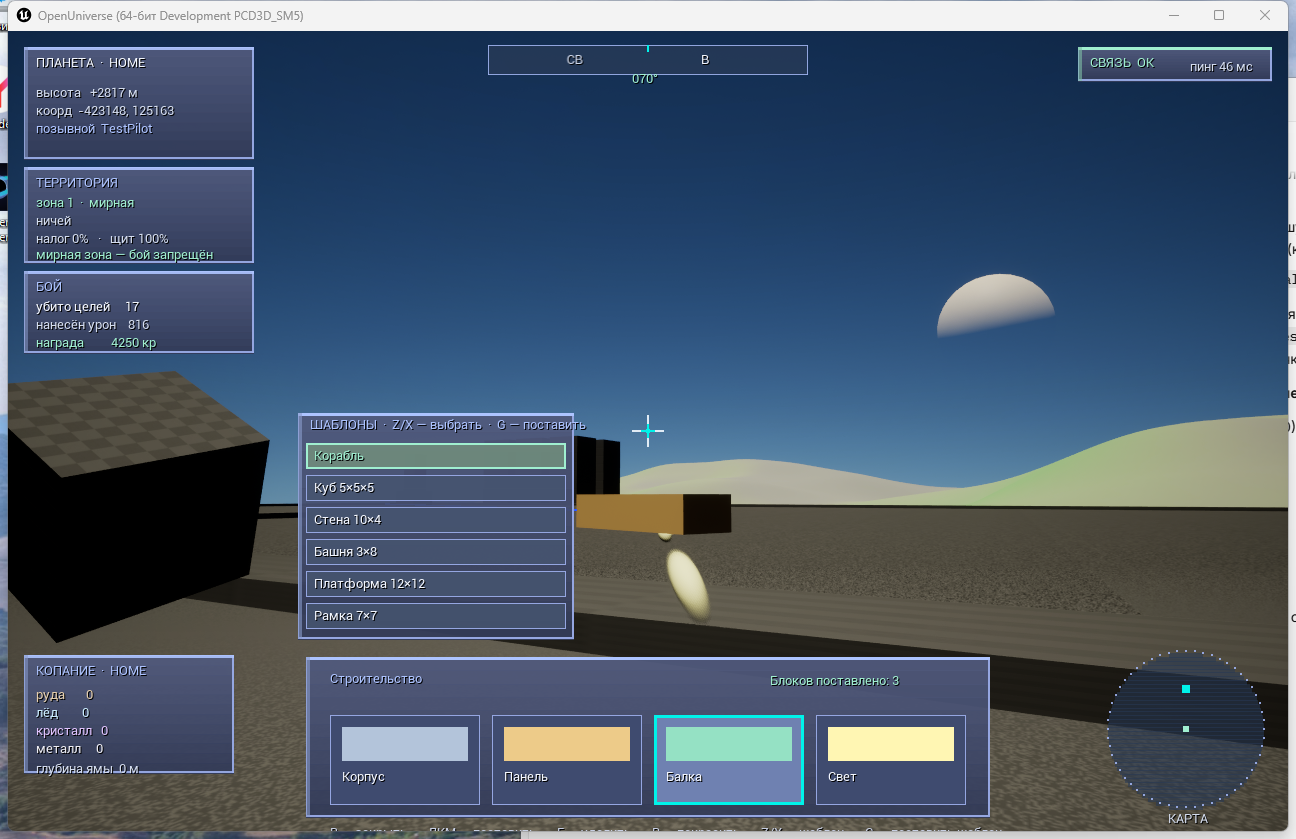
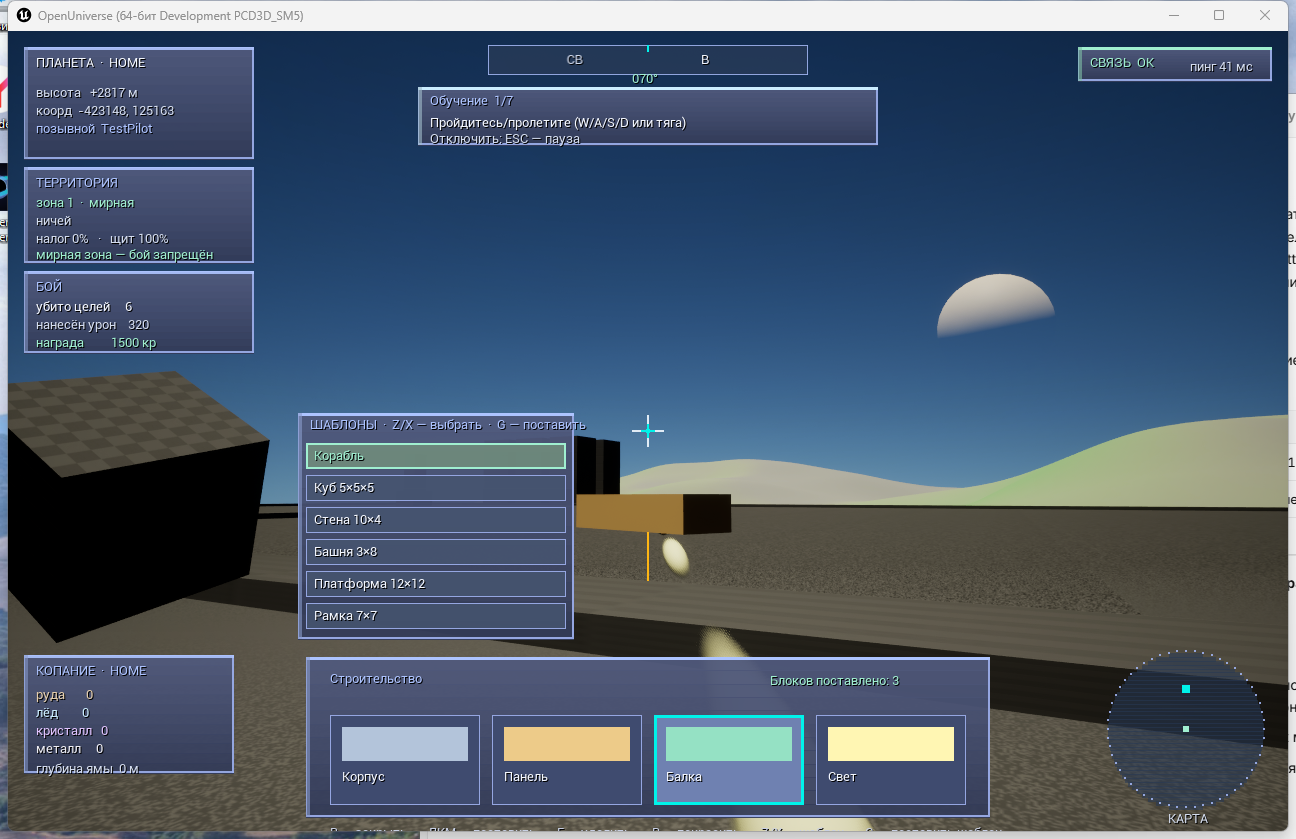
feat: new-player tutorial (step-by-step goals from actions, HUD panel, disable in the pause menu)

diff --git a/data.js b/data.js
@@ -179,7 +179,7 @@ window.PLAN = {
         { "title": "Голосовой чат (голосовая связь)", "title_en": "Voice chat", "status": "todo" },
         { "title": "Внутриигровая валюта и рынок предметов (MTX): премиум-кристаллы и магазин в окне рынка", "title_en": "In-game currency and item market (MTX): premium crystals and a shop in the market window", "status": "done" },
         { "title": "Таланты/прогрессия персонажа (опыт за копание/крафт/бой, уровни, очки талантов, окно P)", "title_en": "Character talents and progression (XP for digging/crafting/combat, levels, talent points, key P)", "status": "done" },
-        { "title": "Обучение для новичков (tutorial)", "title_en": "New player tutorial", "status": "todo" }
+        { "title": "Обучение для новичков (tutorial): пошаговые цели по действиям, панель в HUD, отключение в паузе", "title_en": "New player tutorial: step-by-step goals from actions, HUD panel, disable in pause", "status": "done" }
       ]
     },
     {

diff --git a/client/Source/OpenUniverse/OUPlayerMenuController.cpp b/client/Source/OpenUniverse/OUPlayerMenuController.cpp
@@ -346,6 +346,10 @@ void AOUPlayerMenuController::OnLeftClick()
 					{
 						LeaveServer();
 					}
+					else if (B.Id == 4)
+					{
+						DisableTutorial();
+					}
 				}
 				return;
 			}
@@ -1201,6 +1205,10 @@ void AOUPlayerMenuController::DrawPauseMenu(UCanvas* InCanvas)
 	MenuRow(1, TEXT("Продолжить"), ColAccent2);
 	MenuRow(2, TEXT("Настройки"), ColAccent);
 	MenuRow(3, TEXT("Отлучиться от сервера"), ColErr);
+	if (bTutorialEnabled && !bTutorialDone)
+	{
+		MenuRow(4, TEXT("Отключить обучение"), FLinearColor(0.9f, 0.75f, 0.3f));
+	}
 
 	DrawText(InCanvas, Small, TEXT("ESC — закрыть  ·  ЛКМ — выбрать"),
 		FVector2D(PanelPos.X + 28, PanelPos.Y + PanelH - 28), ColMuted);
@@ -1717,6 +1725,80 @@ void AOUPlayerMenuController::SubmitChat()
 	}
 	ChatInput.Empty();
 	SetMenuCursor(false);
+}
+
+void AOUPlayerMenuController::NotifyTutorial(const FString& Kind)
+{
+	if (!bTutorialEnabled || bTutorialDone)
+	{
+		return;
+	}
+	static const TCHAR* Steps[] = {
+		TEXT("move"), TEXT("dig"), TEXT("build"), TEXT("market"),
+		TEXT("craft"), TEXT("combat"), TEXT("talent"),
+	};
+	const int32 Count = UE_ARRAY_COUNT(Steps);
+	if (TutorialStep >= Count)
+	{
+		bTutorialDone = true;
+		return;
+	}
+	if (Kind == Steps[TutorialStep])
+	{
+		++TutorialStep;
+		if (TutorialStep >= Count)
+		{
+			bTutorialDone = true;
+			UE_LOG(LogOUMenu, Log, TEXT("Обучение пройдено (все %d шагов)"), Count);
+		}
+		else
+		{
+			UE_LOG(LogOUMenu, Log, TEXT("Обучение: шаг %d/%d пройден по «%s»"),
+				TutorialStep, Count, *Kind);
+		}
+	}
+}
+
+void AOUPlayerMenuController::DisableTutorial()
+{
+	bTutorialEnabled = false;
+	UE_LOG(LogOUMenu, Log, TEXT("Обучение отключено игроком"));
+}
+
+void AOUPlayerMenuController::DrawTutorial(UCanvas* InCanvas)
+{
+	if (bMenuOpen || !bTutorialEnabled || bTutorialDone || !InCanvas)
+	{
+		return;
+	}
+	UFont* Small = GEngine->GetMediumFont();
+	UFont* Tiny = GEngine->GetSmallFont();
+	const float W = InCanvas->SizeX;
+	static const TCHAR* Steps[] = {
+		TEXT("Пройдитесь/пролетите (W/A/S/D или тяга)"),
+		TEXT("Добудьте руду: ЛКМ по земле"),
+		TEXT("Постройте блок: B — режим, ЛКМ — поставить"),
+		TEXT("Загляните на рынок: M"),
+		TEXT("Изготовьте предмет: M — рецепты, ЛКМ"),
+		TEXT("Поучаствуйте в бою: ЛКМ по цели"),
+		TEXT("Откройте персонажа: P"),
+	};
+	const int32 Count = UE_ARRAY_COUNT(Steps);
+	if (TutorialStep >= Count)
+	{
+		return;
+	}
+
+	// Панель сверху по центру (ниже компаса).
+	const float PW = 460.f;
+	const float PH = 58.f;
+	const FVector2D P((W - PW) * 0.5f, 56.f);
+	GlassPanel(InCanvas, P, FVector2D(PW, PH), FLinearColor(0.34f, 0.44f, 0.85f, 0.9f),
+		FLinearColor(0.6f, 0.85f, 1.f));
+	DrawText(InCanvas, Small, FString::Printf(TEXT("Обучение  %d/%d"), TutorialStep + 1, Count),
+		P + FVector2D(12, 6), ColAccent);
+	DrawText(InCanvas, Small, Steps[TutorialStep], P + FVector2D(12, 28), ColText);
+	DrawText(InCanvas, Tiny, TEXT("Отключить: ESC — пауза"), P + FVector2D(12, 44), FLinearColor(0.66f, 0.72f, 0.86f));
 }
 
 void AOUPlayerMenuController::DrawChat(UCanvas* InCanvas)

diff --git a/client/Source/OpenUniverse/OUCharacterPawn.cpp b/client/Source/OpenUniverse/OUCharacterPawn.cpp
@@ -662,6 +662,11 @@ void AOUCharacterPawn::PlaceBuildBlock()
 		BuiltCoords.Add(Target);
 		++BuiltCount;
 		UE_LOG(LogOUChar, Log, TEXT("Строительство: поставить (%d,%d,%d)"), Target.X, Target.Y, Target.Z);
+		// Обучение: строительство.
+		if (AOUPlayerMenuController* MenuB = Cast<AOUPlayerMenuController>(GetController()))
+		{
+			MenuB->NotifyTutorial(TEXT("build"));
+		}
 		return;
 	}
 
@@ -1088,6 +1093,11 @@ void AOUCharacterPawn::DigTerrain()
 		Net->SendDig(Slot, DirServer.X, DirServer.Y, DirServer.Z, CosRadius, DepthServer);
 		UE_LOG(LogOUChar, Log, TEXT("Копание: слот %d, радиус %.0f см, глубина %.0f см"),
 			Slot, DigRadiusCm, DigDepthCm);
+		// Обучение: копание.
+		if (AOUPlayerMenuController* MenuD = Cast<AOUPlayerMenuController>(GetController()))
+		{
+			MenuD->NotifyTutorial(TEXT("dig"));
+		}
 	}
 }
 
@@ -1117,6 +1127,11 @@ void AOUCharacterPawn::ToggleMarket()
 	if (bBuildMenuOpen)
 	{
 		return;
+	}
+	// Обучение: посещение рынка.
+	if (AOUPlayerMenuController* MenuM = Cast<AOUPlayerMenuController>(GetController()))
+	{
+		MenuM->NotifyTutorial(TEXT("market"));
 	}
 	AOUPlayerMenuController* Menu = Cast<AOUPlayerMenuController>(
 		GetController() ? GetController() : nullptr);
@@ -1246,6 +1261,8 @@ void AOUCharacterPawn::ToggleTalents()
 			Menu->bScriptsOpen = false;
 			Menu->bWorkshopOpen = false;
 			Menu->bOrgOpen = false;
+			// Обучение: открытие окна персонажа.
+			Menu->NotifyTutorial(TEXT("talent"));
 		}
 		Menu->SetMenuCursor(Menu->bTalentsOpen);
 		UE_LOG(LogOUChar, Log, TEXT("Таланты: %s"), Menu->bTalentsOpen ? TEXT("открыто") : TEXT("закрыто"));
@@ -1271,6 +1288,12 @@ void AOUCharacterPawn::FireWeapon()
 		return;
 	}
 	FireTimer = FireCooldown;
+
+	// Обучение: участие в бою.
+	if (AOUPlayerMenuController* MenuF = Cast<AOUPlayerMenuController>(GetController()))
+	{
+		MenuF->NotifyTutorial(TEXT("combat"));
+	}
 
 	// Точка вылета — у дула оружия; направление — «вперёд» персонажа (по курсу).
 	const FVector Muzzle = MuzzleFlash ? MuzzleFlash->GetComponentLocation() : GunMesh->GetComponentLocation();
@@ -1410,6 +1433,14 @@ void AOUCharacterPawn::Tick(float DeltaSeconds)
 	if (bAutoWalk && !bAutoBuild)
 	{
 		ViewYaw += 1.5f * DeltaSeconds;
+	}
+	// Обучение: первое движение (ходьба).
+	if (FMath::Abs(FwdInput) > 0.1f || FMath::Abs(InputRight) > 0.1f)
+	{
+		if (AOUPlayerMenuController* MenuT = Cast<AOUPlayerMenuController>(GetController()))
+		{
+			MenuT->NotifyTutorial(TEXT("move"));
+		}
 	}
 
 	// Базис на поверхности: forward — по касательной в сторону курса.

diff --git a/client/Source/OpenUniverse/OUPlayerMenuController.h b/client/Source/OpenUniverse/OUPlayerMenuController.h
@@ -250,6 +250,36 @@ public:
 	UPROPERTY(BlueprintReadOnly, Category = "Open Universe|Progress")
 	bool bTalentsOpen = false;
 
+	// --- Обучение для новичков (tutorial) ---
+
+	/** Включено ли обучение (по умолчанию да; можно отключить в пауза-меню). */
+	UPROPERTY(BlueprintReadOnly, Category = "Open Universe|Tutorial")
+	bool bTutorialEnabled = true;
+
+	/** Индекс текущего шага обучения. */
+	UPROPERTY(BlueprintReadOnly, Category = "Open Universe|Tutorial")
+	int32 TutorialStep = 0;
+
+	/** Завершён ли туториал (все шаги пройдены). */
+	UPROPERTY(BlueprintReadOnly, Category = "Open Universe|Tutorial")
+	bool bTutorialDone = false;
+
+	/**
+	 * Засчитать событие обучения. `kind` — вид действия, случившегося в игре:
+	 * "move" (полетел/пошёл), "dig" (добыл руду), "build" (поставил блок),
+	 * "market" (сходил на рынок), "craft" (изготовил), "combat" (участвовал в бою),
+	 * "talent" (открыл окно персонажа). Шаг засчитывается, когда совпал с целью.
+	 */
+	UFUNCTION(BlueprintCallable, Category = "Open Universe|Tutorial")
+	void NotifyTutorial(const FString& Kind);
+
+	/** Отключить обучение (кнопка в пауза-меню). */
+	UFUNCTION(BlueprintCallable, Category = "Open Universe|Tutorial")
+	void DisableTutorial();
+
+	/** Нарисовать панель обучения в HUD. */
+	void DrawTutorial(class UCanvas* InCanvas);
+
 	// --- Чат ---
 
 	/** Открыт ли ввод чата (Enter в игре). */

diff --git a/client/Source/OpenUniverse/OUShipPawn.cpp b/client/Source/OpenUniverse/OUShipPawn.cpp
@@ -639,6 +639,14 @@ void AOUShipPawn::EnterShip(AOUCharacterPawn* FromCharacter)
 void AOUShipPawn::AxisThrottle(float Value)
 {
 	CurrentInput.Throttle = FMath::Clamp(Value, -1.f, 1.f);
+	// Обучение: первое движение (полёт).
+	if (FMath::Abs(CurrentInput.Throttle) > 0.1f)
+	{
+		if (AOUPlayerMenuController* MenuT = Cast<AOUPlayerMenuController>(GetController()))
+		{
+			MenuT->NotifyTutorial(TEXT("move"));
+		}
+	}
 }
 
 void AOUShipPawn::AxisYaw(float Value)
@@ -654,6 +662,11 @@ void AOUShipPawn::AxisPitch(float Value)
 void AOUShipPawn::StartFire()
 {
 	CurrentInput.bFire = true;
+	// Обучение: участие в бою (корабль).
+	if (AOUPlayerMenuController* MenuF = Cast<AOUPlayerMenuController>(GetController()))
+	{
+		MenuF->NotifyTutorial(TEXT("combat"));
+	}
 }
 
 void AOUShipPawn::StopFire()

diff --git a/client/Source/OpenUniverse/OUPlayerMenuHUD.cpp b/client/Source/OpenUniverse/OUPlayerMenuHUD.cpp
@@ -29,6 +29,8 @@ void AOUPlayerMenuHUD::DrawHUD()
 		Menu->DrawOrg(Canvas);
 		// Окно персонажа (P): опыт, уровень, таланты.
 		Menu->DrawTalents(Canvas);
+		// Обучение для новичков (панель сверху по центру).
+		Menu->DrawTutorial(Canvas);
 		// Чат (лог и строка ввода).
 		Menu->DrawChat(Canvas);
 		// Пауза-меню (ESC) — поверх всего.

diff --git a/plan.md b/plan.md
@@ -160,7 +160,7 @@
 - [x] Текстовый чат (каналы: локальный/глобальный/организация, Enter — ввод, Tab — канал)
 - [x] Внутриигровая валюта и рынок предметов (MTX): премиум-кристаллы и магазин в окне рынка
 - [x] Таланты/прогрессия персонажа (опыт за копание/крафт/бой, уровни, очки талантов, окно P)
-- [ ] Обучение для новичков (tutorial)
+- [x] Обучение для новичков (tutorial): пошаговые цели по действиям, панель в HUD, отключение в паузе
 
 ### Фаза 10 — Запуск и live-ops
 - [ ] Закрытая альфа
@@ -173,8 +173,8 @@
 
 ## 4. Ближайшие шаги
 
-1. **Голосовой чат** — голосовая связь (текстовый чат уже есть).
-2. **Обучение для новичков (tutorial)** — вводный сценарий.
+1. **Закрытая альфа** — подготовка сборки для тестеров.
+2. **Голосовой чат** — голосовая связь (текстовый чат уже есть).
 3. **Межзвёздные перелёты** — перемещения между системами (floating origin).
 4. **Орбитальные станции и шлюзы** — стыковка и торговля на орбите.
 
